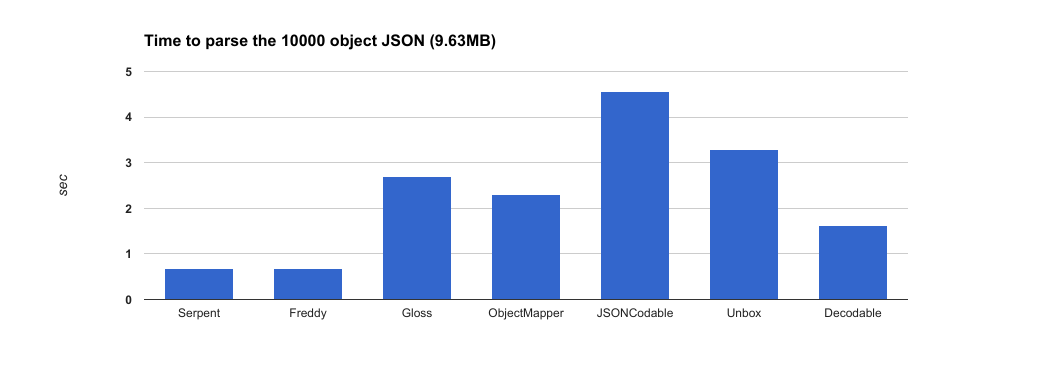
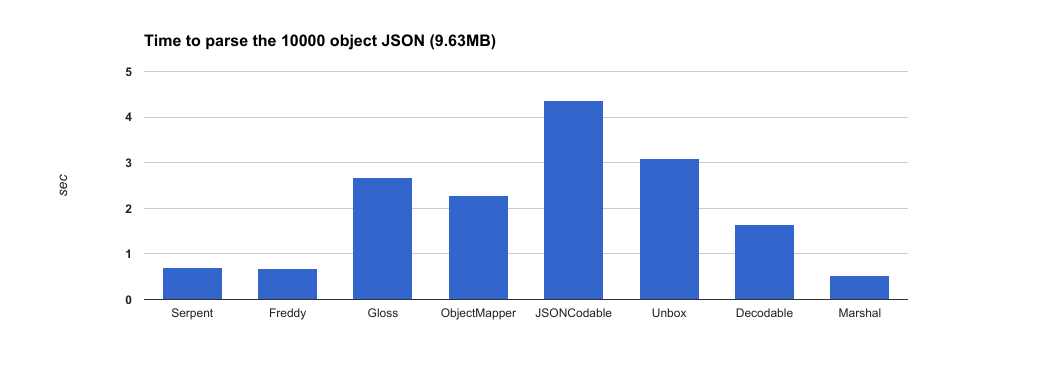
Updated README after Marshal was added

diff --git a/README.md b/README.md
@@ -203,47 +203,52 @@ But how does it compare to other frameworks? We looked at 6 other popular framew
 
 Before we can compare results, we have a few issues to resolve. Freddy only supports primitive types and collections, so no `Enum`, `NSURL`, or odd cases (such as the latitude and longitude fields, which are `String` in the JSON but `Double` in our model). Others can't handle the `NSURL`. So to be fair, we'll remove those properties from the test. 
 
+**Later edit**: We also got PRs that added the following frameworks: [Marshal](https://github.com/utahiosmac/Marshal) (thanks to [bre7](https://github.com/bre7)).
+
 **Note:** If you're curious about the usage of the other frameworks, you can have a look at [the test file](https://github.com/nodes-ios/SerpentPerformanceComparison/blob/master/SerpentComparisonTests/SerpentComparisonTests.swift). 
 
 Test | Large Model | Small Model
 ---|---|---
-Serpent 	   | 0.679 sec | 0.084 sec
-Freddy       | 0.671 sec | 0.090 sec
-Gloss        | 2.702 sec | 0.361 sec
-ObjectMapper | 2.313 sec | 0.346 sec
-JSONCodable  | 4.554 sec | 0.543 sec
-Unbox		   | 3.281 sec | 0.354 sec
-Decodable	   | 1.629 sec | 0.223 sec
+Serpent 	   | 0.711 sec | 0.085 sec
+Freddy       | 0.670 sec | 0.097 sec
+Gloss        | 2.682 sec | 0.360 sec
+ObjectMapper | 2.279 sec | 0.348 sec
+JSONCodable  | 4.363 sec | 0.510 sec
+Unbox		   | 3.102 sec | 0.372 sec
+Decodable	   | 1.642 sec | 0.215 sec
+Marshal	   | 0.528 sec | 0.096 sec
 
-*The tests were last run locally on device on 22 February 2017.*
+*The tests were last run locally on device on 8 March 2017. Here's the [full output](testsOutput.log)*
  
 We're running those performance tests on CI too, so you can see the latest results on [Travis-CI](https://travis-ci.org/nodes-ios/SerpentPerformanceComparison). The times on Travis are different, but the general picture is the same. 
 
-Here's a chart with the results from the tests ran on an iPhone 6S after a clean build on 22 February 2017. Lower is better.
+Here's a chart with the results from the tests ran on an iPhone 6S after a clean build on 8 March 2017. Lower is better.
 
 ![Results chart](chart.png)
 
 
 #### So what does this mean?
 
-When it comes to mapping, **Serpent** and **Freddy** are the fastest. When this test is run, sometimes Freddy is faster, sometimes Serpent is faster, but the difference is pretty negligible. 
+When it comes to mapping, **Marshal** is the fastes, followed by **Freddy** and **Serpent** (the order between Freddy and Serpent varies from one test to another and we'd say is pretty negligible). Overall, all three frameworks performed way better than the others.
 
 
 ## 📈 Feature Comparison
 
 So you've seen the performance tests, but what about features? 
 
- | Serpent | Freddy | Gloss | ObjectMapper | JSONCodable | Unbox | Decodable
----|---|---|---|---|---|---|---|
-Parses primitive types|✔|✔|✔|✔|✔|✔|✔
-Parses nested objects|✔|✔|✔|✔|✔|✔|✔
-Parses Enum types|✔|❌|✔|✔|✔|✔|❌
-Parses other types (e.g. NSURL, UIColor)|✔|❌|✔|❌|❌|✔|❌
-Easy protocol conformance syntax with custom operator|✔|❌|✔|✔|❌|❌|✔
-Flexible mapping function without complicated generics syntax or casting|✔|✔|❌|❌|❌|✔|✔
-Decodes without needing to handle errors|✔|❌|✔|✔|❌|✔|✔
-Auto-generated code from Model Boiler|✔|❌|❌|❌|❌|❌|❌
-**Best Performance**|✔|✔|❌|❌|❌|❌|❌
+ | Serpent | Freddy | Gloss | ObjectMapper | JSONCodable | Unbox | Decodable | Marshal |
+---|---|---|---|---|---|---|---|---|
+Parses primitive types|✔|✔|✔|✔|✔|✔|✔|✔
+Parses nested objects|✔|✔|✔|✔|✔|✔|✔|✔
+Parses Enum types|✔|❌|✔|✔|✔|✔|❌|✔
+Parses other types (e.g. NSURL, UIColor)|✔|❌|✔|❌|❌|✔|❌|partially<sup>1</sup>
+Easy protocol conformance syntax with custom operator|✔|❌|✔|✔|❌|❌|✔|✔
+Flexible mapping function without complicated generics syntax or casting|✔|✔|❌|❌|❌|✔|✔|✔
+Decodes without needing to handle errors|✔|❌|✔|✔|❌|✔|✔|✔
+Auto-generated code from Model Boiler|✔|❌|❌|❌|❌|❌|❌|❌
+**Great Performance**|✔|✔|❌|❌|❌|❌|❌|✔
+
+<sup>1</sup> Marshal supports NSURL, doesn't support UIColor, but you can manually create extensions that will parse it.
 
 
 ## 🏷 TL;DR
